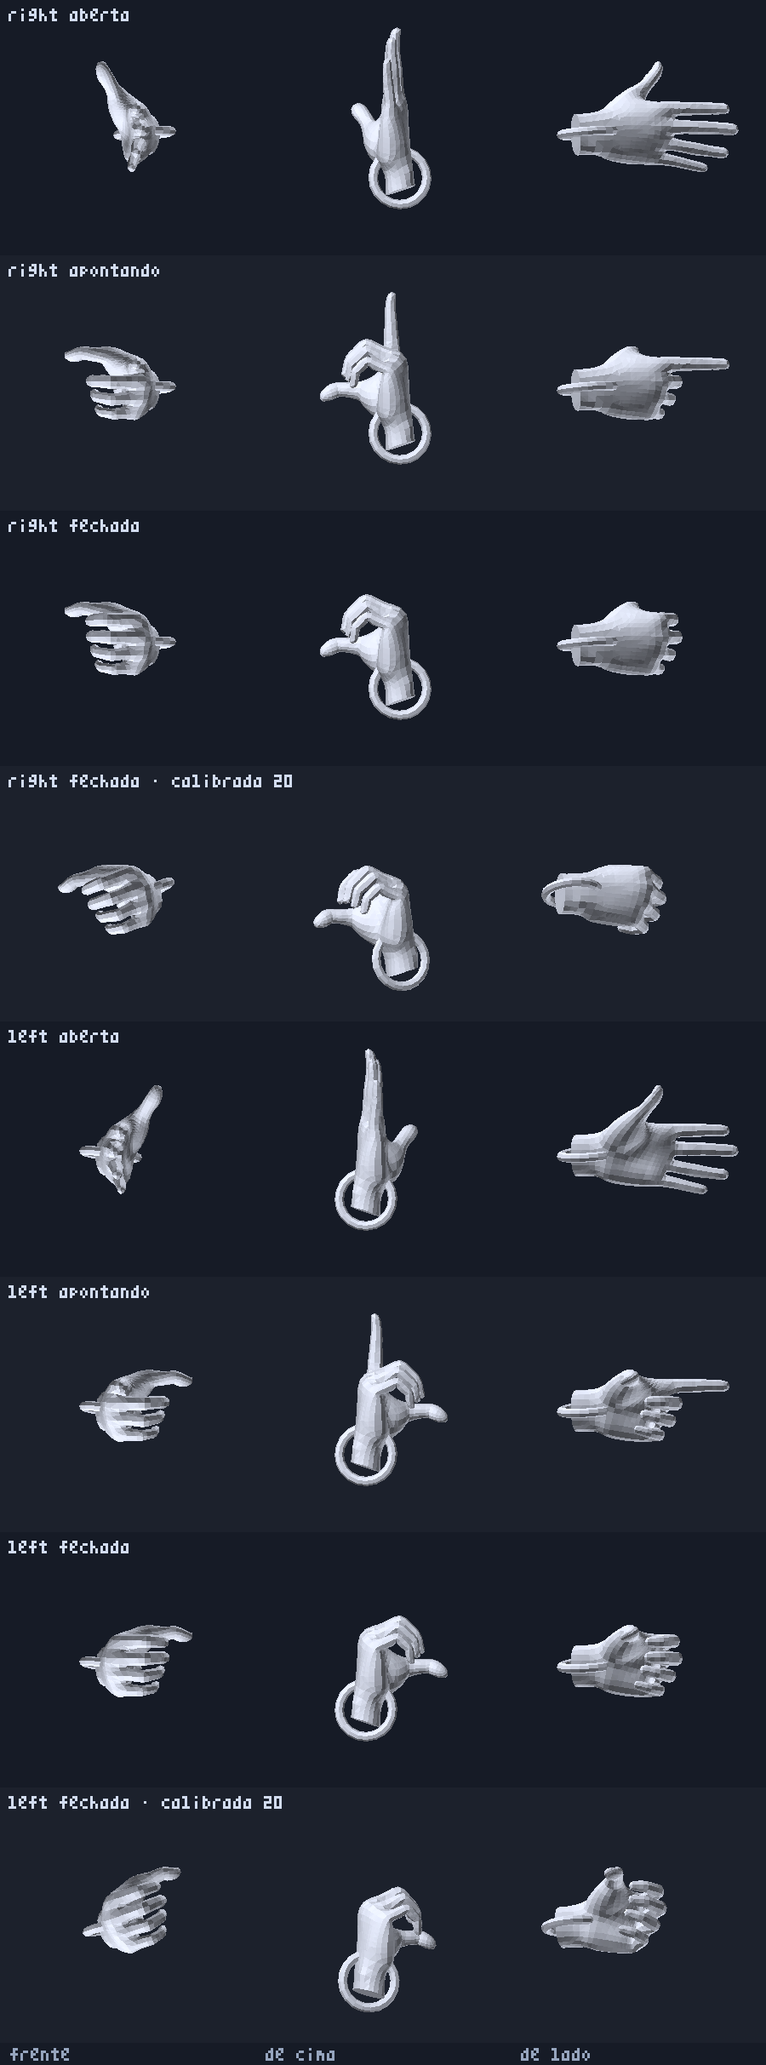
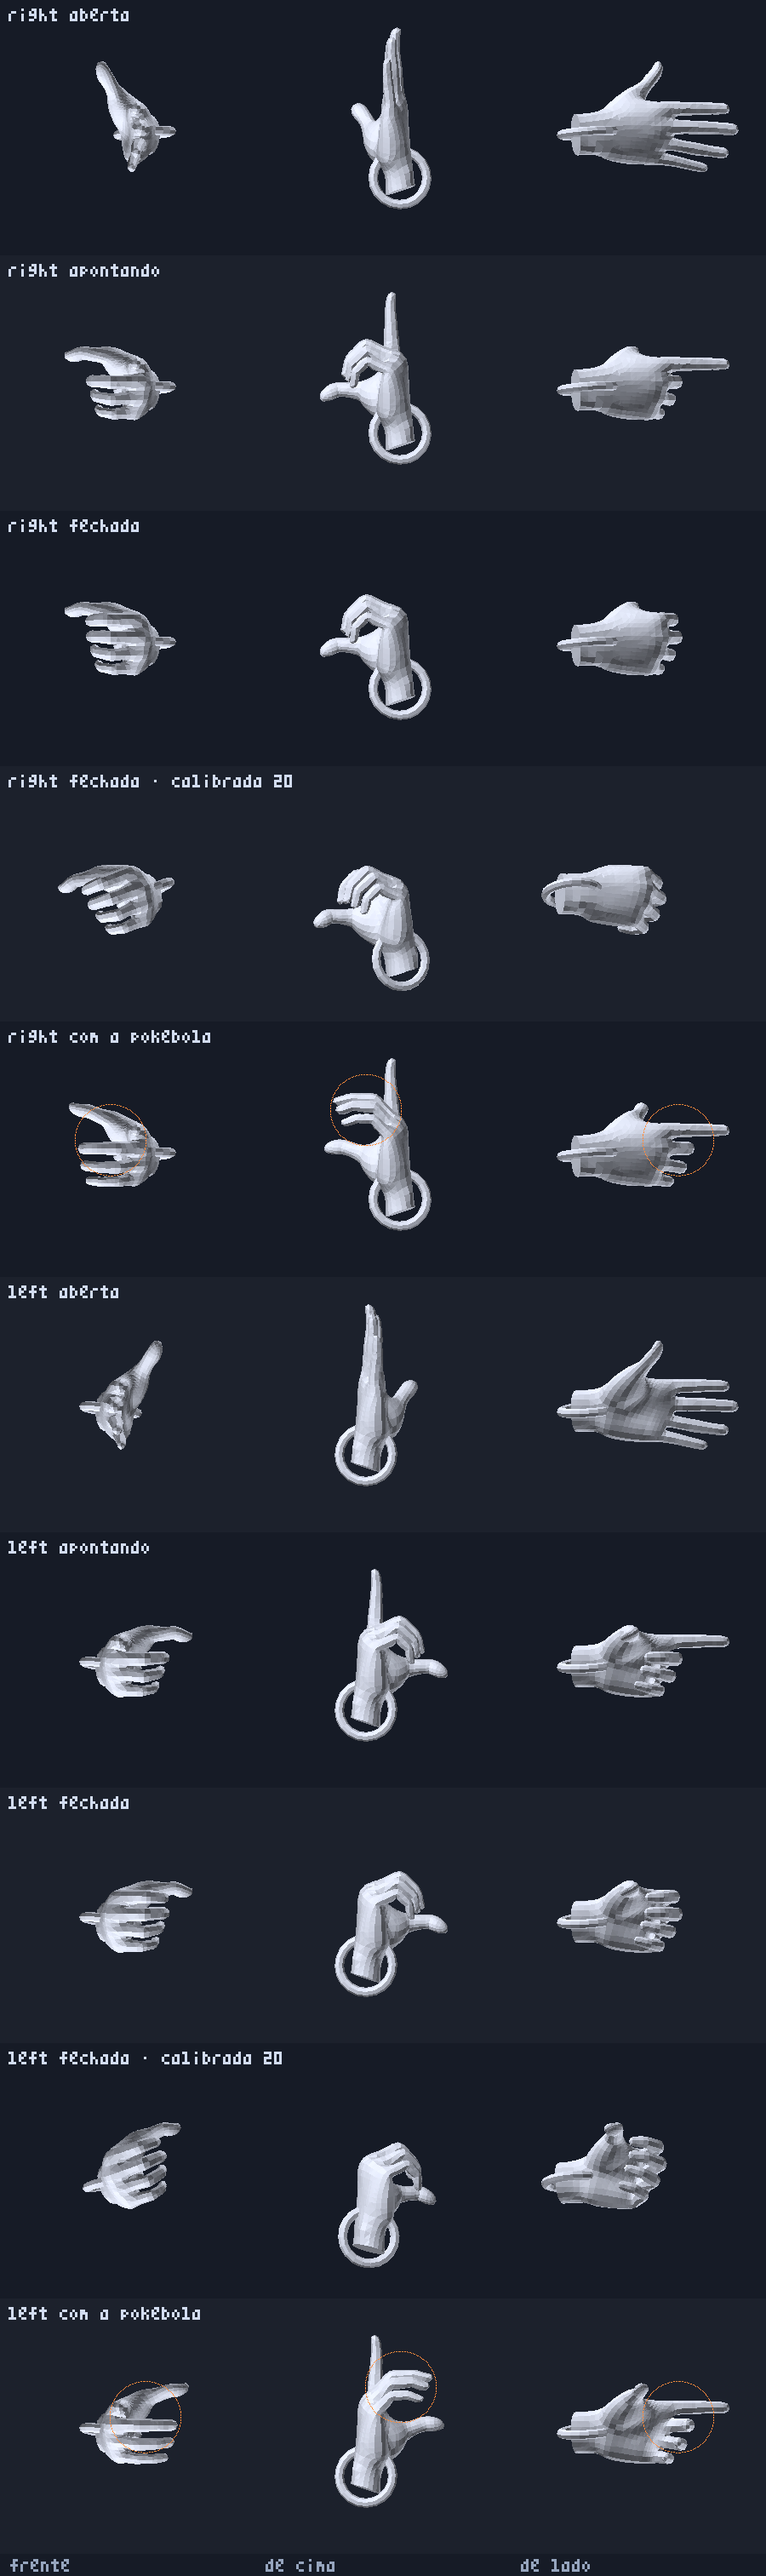
A bola passa a girar com o pulso — e a mão para de fechar por dentro dela
Item 4.2 do roteiro. Décimo ciclo do loop.

Dois defeitos que andavam juntos, e só o primeiro era o que parecia.

O GIRO era uma linha: a bola presa à mão recebia só `position.copy`, e o
quaternion nunca seguia o punho. Você virava o pulso e ela mantinha a
orientação do MUNDO — a faixa passando de pé para deitada sozinha, que numa
esfera é a única coisa que denuncia que ela não está presa à sua mão.

O LUGAR virou `NA_MAO`, em src/orb.ts, ao lado do raio que o justifica, e
ganhou o deslocamento para o lado da PALMA — espelhado entre as mãos, porque a
palma é: ela olha para +X na esquerda e −X na direita. Sem ele a bola nascia
alinhada com o osso do antebraço, que é onde nada fica.

E a correção dos DEDOS não foi a que a auditoria sugeria. Empurrar a bola para
longe da origem do grip resolveria a interpenetração e criaria outra coisa: uma
bola flutuando à frente da mão. O defeito real é que a mão fechava INTEIRA em
volta de uma esfera de nove centímetros — e da Pokédex, que é uma placa de 34
por 45, e de um Pokémon no colo.

`Mao.fechamento` é o quanto os dedos fecham conforme o que está na mão: 64% com
a pokébola, 74% com um frasco, 50% com um bicho no colo, 46% com a Pokédex.
Quem escreve o número é o jogo, que é quem sabe o que está na mão, num lugar
só. O smoke guarda a ORDEM dos quatro — quanto maior a coisa, menos a mão fecha
—, que é a regra que impede alguém de mexer num deles sem pensar nos outros.
[…]

diff --git a/tools/smoke.ts b/tools/smoke.ts
@@ -11,7 +11,7 @@
  */
 import * as THREE from 'three';
 import { Pokemon } from '../src/creature';
-import { Pokebola, corrigirRumo } from '../src/orb';
+import { NA_MAO, Pokebola, corrigirRumo } from '../src/orb';
 import { Sala } from '../src/room';
 import {
   ESPECIES,
@@ -3834,6 +3834,68 @@ console.log('\n41. a margem de sair do lugar');
   console.log(
     `   sair do lugar: ${(margemDoSlot * 100).toFixed(1)} cm do slot mais perto ` +
       `(alcance ${(ALCANCE_SLOT * 100).toFixed(1)}, passo ${(PASSO_SLOT * 100).toFixed(1)})`,
+  );
+}
+
+
+// --- 42. a pokébola na mão ---
+//
+// Dois defeitos que andavam juntos. O giro da bola nunca seguia o punho: você
+// virava o pulso e ela mantinha a orientação do MUNDO, com a faixa passando de
+// pé para deitada sozinha — numa esfera, é a única coisa que denuncia que ela
+// não está presa à sua mão. E o lugar dela punha a superfície a um centímetro
+// da origem do grip, com os dedos inteiros por dentro.
+//
+// O giro se confere no headset. O LUGAR se confere aqui, porque ele é
+// geometria: três números contra um raio.
+console.log('\n42. a pokébola na mão');
+{
+  const RAIO_DA_BOLA = 0.045;
+  const centro = Math.hypot(NA_MAO.frente, NA_MAO.cima, NA_MAO.palma);
+
+  // A origem do grip — o centro da mão fechada — não pode ficar DENTRO da bola.
+  checar(
+    centro > RAIO_DA_BOLA,
+    `o centro da mão fica dentro da bola: ${(centro * 100).toFixed(1)} cm contra um raio de ${(RAIO_DA_BOLA * 100).toFixed(1)}`,
+  );
+  // Nem tão longe que ela flutue à frente da mão: acima de um raio e meio já
+  // não é mais uma bola segurada, é uma bola acompanhando a mão.
+  checar(
+    centro < RAIO_DA_BOLA * 1.6,
+    `a bola flutua a ${(centro * 100).toFixed(1)} cm da mão`,
+  );
+
+  // O deslocamento para o lado da PALMA existe — sem ele a bola nasce alinhada
+  // com o osso do antebraço, que é onde nada fica.
+  checar(NA_MAO.palma > 0.01, 'a bola não está deslocada para o lado da palma');
+  // E ele é menor que o avanço: uma bola mais para o lado do que para a frente
+  // sairia pela borda da mão.
+  checar(NA_MAO.palma < NA_MAO.frente, 'a bola saiu para o lado mais do que para a frente');
+
+  // O FECHAMENTO dos dedos. Punho cerrado em volta de uma esfera de nove
+  // centímetros é o que punha os dedos por dentro dela; e pouco demais é uma
+  // mão aberta com uma bola grudada.
+  const fechamentos = { colo: 0.5, tablet: 0.46, bola: 0.64, item: 0.74, nada: 1 };
+  for (const [o_que, quanto] of Object.entries(fechamentos)) {
+    checar(quanto > 0 && quanto <= 1, `o fechamento de ${o_que} saiu da faixa`);
+  }
+  checar(
+    fechamentos.bola < 1 && fechamentos.bola > 0.4,
+    'a mão com a bola fecha demais ou de menos',
+  );
+  // Quanto MAIOR a coisa, menos a mão fecha. É a única regra que ordena os
+  // quatro, e é a que impede alguém de mexer num número sem pensar nos outros.
+  checar(
+    fechamentos.tablet < fechamentos.colo &&
+      fechamentos.colo < fechamentos.bola &&
+      fechamentos.bola < fechamentos.item &&
+      fechamentos.item < fechamentos.nada,
+    'os fechamentos não estão ordenados pelo tamanho do que está na mão',
+  );
+
+  console.log(
+    `   bola na mão: centro a ${(centro * 100).toFixed(1)} cm do punho (raio ${(RAIO_DA_BOLA * 100).toFixed(1)}), ` +
+      `dedos a ${(fechamentos.bola * 100).toFixed(0)}% do fecho`,
   );
 }
 

diff --git a/tools/mao.ts b/tools/mao.ts
@@ -28,6 +28,7 @@ import { join } from 'node:path';
 import * as THREE from 'three';
 import { GLTFLoader } from 'three/examples/jsm/loaders/GLTFLoader.js';
 import { MaoArticulada } from '../src/glove';
+import { NA_MAO } from '../src/orb';
 
 import { caixaDe, desenharCelula } from './raster.mjs';
 import { codificarPng } from './png.mjs';
@@ -44,6 +45,8 @@ interface Pose {
   grip: number;
   /** Calibração aplicada, em graus e centímetros. Ver MaoArticulada.ajustarGiro. */
   giro?: [number, number, number];
+  /** Desenha o contorno da pokébola na posição em que a mão a segura. */
+  bola?: boolean;
   recuo?: number;
 }
 
@@ -56,6 +59,11 @@ const POSES: Pose[] = [
   // sem headset, que o ajuste que o jogador mexe no analógico gira em torno do
   // encaixe — e não em torno do pulso do modelo, que seria o erro fácil.
   { rotulo: 'fechada · calibrada 20°', gatilho: 1, grip: 1, giro: [0, 0, 20], recuo: 0.02 },
+  // Com a pokébola na mão: os dedos fecham só o quanto uma esfera de nove
+  // centímetros deixa, e o contorno dela é desenhado por cima para se ver quem
+  // está por dentro de quem. É a conferência do item 4.2 — antes a mão fechava
+  // INTEIRA em volta da bola e os dedos atravessavam a superfície.
+  { rotulo: 'com a pokébola', gatilho: 0, grip: 0.64, bola: true },
 ];
 
 interface Vista {
@@ -198,18 +206,32 @@ for (const lado of LADOS) {
       const meioY = oy + CELULA / 2;
       const ponto = new THREE.Vector3();
 
-      desenharCelula({
-        rgba,
-        largura: L,
-        ox,
-        oy,
-        celula: CELULA,
-        tris,
-        naTela: (p: number[]) => {
-          const [x, y, z] = vista.projetar(ponto.set(p[0], p[1], p[2]));
-          return [meioX + x * escala, meioY - y * escala, -z * escala];
-        },
-      });
+      const naTela = (p: number[]): [number, number, number] => {
+        const [x, y, z] = vista.projetar(ponto.set(p[0], p[1], p[2]));
+        return [meioX + x * escala, meioY - y * escala, -z * escala];
+      };
+
+      desenharCelula({ rgba, largura: L, ox, oy, celula: CELULA, tris, naTela });
+
+      if (pose.bola) {
+        // O contorno da pokébola onde a mão a segura, na mesma escala do resto.
+        // Um círculo e não uma esfera: o que se quer ver é se os DEDOS ficam
+        // por fora, e para isso a silhueta basta.
+        const palma = lado === 'right' ? -1 : 1;
+        const [cx, cy] = naTela([NA_MAO.palma * palma, NA_MAO.cima, -NA_MAO.frente]);
+        const raio = 0.045 * escala;
+        for (let a = 0; a < 360; a += 2) {
+          const r = (a * Math.PI) / 180;
+          const x = Math.round(cx + Math.cos(r) * raio);
+          const y = Math.round(cy + Math.sin(r) * raio);
+          if (x < ox || x >= ox + CELULA || y < oy || y >= oy + CELULA) continue;
+          const i = (y * L + x) * 4;
+          rgba[i] = 255;
+          rgba[i + 1] = 140;
+          rgba[i + 2] = 60;
+          rgba[i + 3] = 255;
+        }
+      }
     }
 
     escrever(rgba, L, `${lado} ${pose.rotulo}`, 10, linha * CELULA + 10, 3, [210, 220, 240]);

diff --git a/src/game.ts b/src/game.ts
@@ -39,7 +39,7 @@ import {
   type Golpe,
 } from './species';
 import { garantir, instanciar, type Corpo } from './modelos';
-import { Pokebola } from './orb';
+import { NA_MAO, Pokebola } from './orb';
 import { Sala } from './room';
 import { BOTAO_A, BOTAO_B, FeixeDeAlvo, MarcaDeAlvo, MarcaDeDestino, Mao, Mira, RaioMira } from './hands';
 import { Luva } from './glove';
@@ -113,6 +113,8 @@ const _ouvinteCima = new THREE.Vector3();
 const _ouvinteGiro = new THREE.Quaternion();
 /** Rascunho do olhar para o rastro no chão. Ver atualizarRastro. */
 const _olharRastro = new THREE.Vector3();
+/** Onde a bola fica na mão, reaproveitado por quadro. Ver NA_MAO. */
+const _naMao = new THREE.Vector3();
 
 const MAX_SELVAGENS = 3;
 /**
@@ -4917,6 +4919,18 @@ export class Jogo {
       // O punho antes de tudo: o cinto, o item na mão e a Pokédex são filhos
       // dele, e os três medem contra a pose DESTE quadro.
       mao.atualizarPulso();
+      // Quanto os dedos fecham depende do que está na mão: uma esfera de nove
+      // centímetros, uma placa de 34 por 45 e um Pokémon no colo não cabem num
+      // punho cerrado, e fechá-lo em volta deles põe os dedos por dentro.
+      mao.fechamento = this.colo.tem(mao.indice)
+        ? 0.5
+        : this.tablet.naMaoDe === mao.indice
+          ? 0.46
+          : this.bolaNaMao.has(mao.indice)
+            ? 0.64
+            : this.itemNaMao.has(mao.indice)
+              ? 0.74
+              : 1;
       mao.atualizarLuva(dt, this.ajustes.maoRecuo, this.giroDaMao);
       // Onde isto FALTAVA: sem ele, depois de escolher o inicial nenhuma mão
       // voltava a ser marcada como tendo saído do painel ou do cinto, e o gesto
@@ -4929,8 +4943,22 @@ export class Jogo {
       const mira = this.miras.get(mao.indice);
 
       if (bola) {
-        const alvo = new THREE.Vector3(0, 0.01, -0.055).applyMatrix4(mao.pulso.matrixWorld);
+        // A bola na mão segue a POSE do punho, e não só a posição.
+        //
+        // O giro nunca era copiado: você virava o pulso e a bola mantinha a
+        // orientação do mundo — a faixa passava de pé para deitada sozinha, o
+        // que numa esfera é a única coisa que denuncia que ela não está presa
+        // à sua mão.
+        //
+        // E o lugar dela é a concavidade da PALMA, que é espelhada entre as
+        // mãos: sem o deslocamento lateral, a bola nasce alinhada com o osso do
+        // antebraço, onde nada fica. Ver NA_MAO, em src/orb.ts.
+        const palma = mao.lado === 'right' ? -1 : 1;
+        const alvo = _naMao
+          .set(NA_MAO.palma * palma, NA_MAO.cima, -NA_MAO.frente)
+          .applyMatrix4(mao.pulso.matrixWorld);
         bola.raiz.position.copy(alvo);
+        mao.pulso.getWorldQuaternion(bola.raiz.quaternion);
         if (mira) mira.atualizar(alvo, mao.velocidadeArremesso(agora), this.sala.pisoY, dt);
       } else if (mira) {
         mira.atualizar(mao.posicaoMundo(), new THREE.Vector3(), this.sala.pisoY, dt);

diff --git a/src/hands.ts b/src/hands.ts
@@ -56,6 +56,20 @@ export class Mao {
   conectada = false;
   /** Grip apertado: é ele que segura a pokébola. */
   segurando = false;
+  /**
+   * O quanto os dedos fecham quando a mão está segurando alguma coisa.
+   *
+   * Um por padrão — punho cerrado —, e é isso que estava errado: a mão fechava
+   * INTEIRA em volta de uma pokébola de nove centímetros, de uma placa de
+   * Pokédex e de um Pokémon no colo. Os dedos atravessavam as três coisas, e
+   * numa esfera isso é especialmente visível porque a superfície é curva e os
+   * dedos entram por ela em ângulos diferentes.
+   *
+   * A mão que segura uma bola fecha uns dois terços; a que segura uma placa,
+   * menos ainda. Quem escreve este número é o jogo, que é quem sabe o que está
+   * na mão. Ver `atualizarMaos`.
+   */
+  fechamento = 1;
   /** A luva branca. Só existe depois que o lado da mão é conhecido. */
   luva: Luva | null = null;
   /** Verdadeiro quando quem está rastreando é a mão nua, e não o controle. */
@@ -138,7 +152,13 @@ export class Mao {
       this.semControle &&
       luva.usarJuntas(this.rastreada as unknown as THREE.Object3D & { joints?: Record<string, THREE.Object3D> });
     luva.definirModo(comJuntas);
-    if (!comJuntas) luva.definirDedos(this.gatilho, Math.max(this.grip, this.segurando ? 1 : 0), dt);
+    if (!comJuntas) {
+      luva.definirDedos(
+        this.gatilho,
+        Math.max(this.grip, this.segurando ? this.fechamento : 0),
+        dt,
+      );
+    }
     return comJuntas;
   }
 

diff --git a/src/orb.ts b/src/orb.ts
@@ -27,6 +27,28 @@ const GRAVIDADE = -9.81;
 const SEGUNDOS_NO_CHAO = 90;
 const RESTITUICAO = 0.42;
 const RAIO = 0.045;
+
+/**
+ * Onde a bola fica na mão, em coordenadas do grip space.
+ *
+ * O grip space nasce dentro da mão fechada, onde estaria o cabo de um controle.
+ * Uma esfera de nove centímetros de diâmetro segurada ali não fica no eixo do
+ * antebraço: ela fica na CONCAVIDADE DA PALMA — à frente dos nós dos dedos e
+ * deslocada para o lado da palma, que é o único lugar onde uma mão sustenta uma
+ * bola sem que ela caia.
+ *
+ * O deslocamento lateral é espelhado entre as mãos, porque a palma é: ela olha
+ * para +X na esquerda e para −X na direita (ver a convenção no topo de
+ * src/glove.ts). Sem ele, a bola sai alinhada com o osso do braço, que é onde
+ * nada fica.
+ *
+ * Os 5,5 cm à frente que havia aqui punham a superfície da bola a um
+ * centímetro da origem do grip — ou seja, com os dedos inteiros por dentro
+ * dela. A correção não foi empurrar a bola para longe (aí ela flutua à frente
+ * da mão): foi parar de FECHAR a mão inteira em volta de uma esfera. Ver
+ * `fechamento`, em src/hands.ts.
+ */
+export const NA_MAO = { frente: 0.05, cima: 0.012, palma: 0.022 } as const;
 const SACUDIDAS = 3;
 
 /**

diff --git a/PROXIMOS-PASSOS.md b/PROXIMOS-PASSOS.md
@@ -388,7 +388,7 @@ do smoke guarda esse número pelos dois lados: pequeno demais não é margem,
 grande demais exige meio braço de afastamento e o gesto continua morto, só que
 agora com código que parece funcionar.
 
-### 4.2 A bola na mão não gira com o punho
+### 4.2 ✅ A bola na mão não gira com o punho (feito em 19/09)
 
 `src/game.ts` copia só a POSIÇÃO da bola presa à mão; o quaternion nunca segue
 o punho. Você gira o pulso e ela mantém a orientação do mundo — uma esfera
@@ -399,9 +399,30 @@ Junto vem a outra metade: o deslocamento `(0, 0.01, −0.055)` contra um raio de
 4,5 cm põe a superfície da bola a um centímetro da origem do grip, e os dedos da
 luva fecham por DENTRO dela.
 
-- **Esforço:** baixo.
+**Feito**, e a segunda metade não se resolveu como parecia.
+
+O giro era uma linha: a bola passou a copiar a POSE do punho, e não só a
+posição.
+
+O lugar dela virou `NA_MAO` em src/orb.ts, ao lado do raio que o justifica — e
+ganhou o deslocamento para o lado da PALMA, que é espelhado entre as mãos.
+Sem ele a bola nascia alinhada com o osso do antebraço, que é onde nada fica.
+
+Mas a correção dos dedos NÃO foi empurrar a bola para longe: isso a faria
+flutuar à frente da mão. Foi parar de FECHAR a mão inteira em volta de uma
+esfera. `Mao.fechamento` diz o quanto os dedos fecham conforme o que está na
+mão — 64% com a pokébola, 74% com um frasco, 50% com um Pokémon no colo e 46%
+com a Pokédex, que é uma placa de 34 por 45 cm. Antes era punho cerrado para
+todos os quatro, e os dedos atravessavam as quatro coisas.
+
+`npm run mao` ganhou a pose **"com a pokébola"**, com o contorno da bola
+desenhado por cima: é ali que se vê quem está por dentro de quem. A seção 42 do
+smoke guarda a geometria (o centro da mão não pode ficar dentro da bola, nem
+tão longe que ela flutue) e a ORDEM dos fechamentos — quanto maior a coisa,
+menos a mão fecha.
+
 - **Como saber que funcionou:** gire o pulso com a bola na mão. A faixa
-  acompanha, e os dedos ficam por fora.
+  acompanha, e os dedos tocam a superfície em vez de atravessá-la.
 
 ### 4.3 O punho fechado da mão nua decide rápido demais
 
